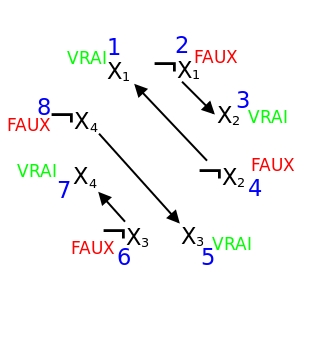
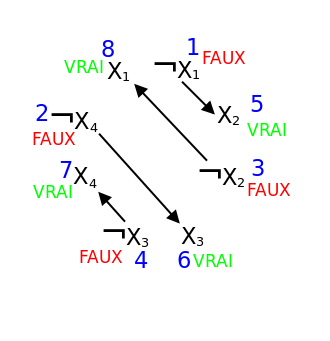
Exo 3-3 : images améliorés, plusieurs paragaphes rédigés (jc)

diff --git a/rapport.tex b/rapport.tex
@@ -437,68 +437,95 @@ Il s'agit de prouver que 2-SAT est un problème polynomial. Vous avez un article
 Vous commencerez par fabriquer trois ensembles de deux clauses, le premier valide, le deuxième insatisfiable et le troisième contingent, et pour chacun de ces ensembles de clauses vous construirez le graphe correspondant. Vous expliquerez comment apparaît sur chacun des trois graphes la validité de l'ensemble de clauses corresponsdant.
 \end{sousenonce}
 
-Philippe Gambette, dans son article intitulé \begin{quote}Un graphe pour résoudre 2-SAT\end{quote}, donne une explication succincte de l'agorithme de Aspvall, Plass et Tarjan, un algorithme en temps polynomial.
+Philippe Gambette, dans son article intitulé \begin{quote}Un graphe pour résoudre 2-SAT\end{quote}, donne une explication succincte de l'agorithme de Aspvall, Plass et Tarjan.
 
-Une formule logique en forme normale conjonctive contenant des clauses à deux littéraux est transformé en un problème de graphe orienté. On doit tout d'abord établir s'il existe une valuation de la graphe en question et ensuite trouvé une solution où la formule en question soit vraie.
+Une formule logique en forme normale conjonctive contenant des clauses à deux littéraux est transformé en un problème de graphe orienté. On doit tout d'abord établir si la formule admet un modèle, et, et ensuite, si oui, donné un modèle quelconque.
 
-%\begin{enumerate}
-La construction du graphe : 
-%\begin{enumerate}
-On crée un graphe avec $2n$ sommets contenant tous les littéraux de la formule ainsi que sa négation.
-On prend chaque clause de la formule que l'on traduit en implication dans les deux sens : $(a \vee b)$ 
-devient, et $(\neg a \Rightarrow b)$, et $\neg b \Rightarrow a)$.
-On ajoute un arc correspondant aux deux implications dans le graphe, dans l'exemple de l'étape précédent,
-il s'agirait d'un arc de $\neg a$ à $b$ et un arc de $\neg b$ à $a$
-%\end{enumerate}
-On effectue un tri topologique en numérotant les sommets de $1$ à $n$.
-En ordre inverse, du sommet $n$ au sommet $1$, on affecte à tout noeud $a$ la valeur VRAI (et à $\neg a$ la valeur FAUX)
-%\end{enumerate}  	
+\begin{enumerate}
+\item L'algorithme de construction de graphe : 
+\begin{enumerate}
+\item On crée un graphe avec $2n$ sommets ($n$ étant ici le nombre littéraux distincts de la formule) contenant tous les littéraux de la formule ainsi que les négations de ces littéraux.
+\item On prend chaque clause de la formule que l'on traduit en implication dans les deux sens : $(a \vee b)$ 
+se transforme en deux clauses : $(\neg a \Rightarrow b)$ et $\neg b \Rightarrow a)$.
+\item On crée des arcs correspondant aux implications créées à l'étape précédent (arc $\neg a 
+\rightarrow b$ et $\neg b \rightarrow a$
+\end{enumerate}
+\item On effectue un tri topologique en numérotant les sommets de $1$ à $n$.
+\item En ordre inverse, du sommet $n$ au sommet $1$ du graphe, on affecte à tout noeud $a$ la valeur VRAI (et à $\neg a$ la valeur FAUX), c'est-à-dire dans l'ordre inverse du tri topologique.
+\end{enumerate}  	
 
-S'il existe un un composant fortement connexe contenant un littéral et sa négation, la formule est insatisfiable,
-sinon, la formule est satisfiable, c'est-à-dire soit contingente soit valide.
+S'il existe un composant fortement connexe contenant un littéral et sa négation, la formule est insatisfiable étant donné qu'on a $x_{i} \Leftrightarrow \neg £x_{i}$ sinon, la formule est satisfiable, c'est-à-dire soit contingente soit valide. L'algorithme ne nous donne aucune information pour distinguer une formule contingente et une formule valide, il nous donne une ou deux informations : (1) il nous dit si la formule admet un modèle, et (2) si oui, il nous donne un modèle. Le modèle est assuré car le graphe en question ne contient aucun arc $VRAI \rightarrow FAUX$.
 
+Prenons trois exemples, une formule insatisfiable, une formule contingente et une formule valide.
 
 Clause insatisfiable : $(x_{1} \vee x_{1}) \wedge (\neg x_{1} \vee \neg x_{1})$
 
 \includegraphics[height=2in, width = 3in]{img/insatisfiable.png}
 
-%Losque l'on appiqua
-%On transforme la clause $(x_{1} \vee x_{1})$ en $(\neg x_{1} \Rightarrow x_{1})$ et en 
-%$(\neg x_{2} \Rightarrow x_{2})$. 
+Le résultat de l'application de l'algorithme décrit ci-dessus est un graphe orienté cyclique. Il est impossible d'effectuer un tri topologique étant donné qu'un tri topologique ne peut être effectuer que sur un graphe acyclique orienté. Ce graphe contient un composant fortement connexe contenant un littéral et sa négation, et la formule associée est, par conséquent, insatisfiable. Il est impossible d'attribuer un ordre aux sommets pour ensuite affecter des valeurs aux littéraux correspondant aux sommets car la formule admet aucun modèle. Pour cette raison, les arcs de ce graphe n'ont pas été numérotés ni affecté des valeurs $VRAI$ ou $FAUX$. En somme, l'algorithme nous dit simplement que ce graphe n'admet aucun modèle.  
 
-Ce graphe contient un composant fortement connexe contenant un littéral et sa négation.
-La formule associée est, par conséquent, insatisfiable.
 
 Clause contingente :  $(x_{1} \vee x_{2}) \wedge (x_{3} \vee x_{4})$	
 
 \includegraphics[height=2in, width = 3in]{img/contingente.png}
 
-Ce graphe ne contient aucun composant fortement connexe contenant un littéral et sa négation.
-Selon ces informations, la formule ci-dessus pourrait être soit contingente soit valide.
-
-... ?? pourquoi contingente et non pas valide ??
-
+Ce graphe ne contient aucun composant fortement connexe contenant un littéral et sa négation, donc la formule associée admet bien un modèle. Ce modèle est le résultat du tri topologique effectué et les valeurs $VRAI$ et $FAUX$ affectées par notre algorithme. Il existe aucun arc qui part d'un sommet étiqueté $VRAI$ vers un sommet étiqueté $FAUX$ et, en effet, les valeurs attribuées aux arcs donnent bien un modèle. 
 
 
 Clause valide :  $(x_{1} \vee \neg x_{1}) \wedge (x_{2} \vee \neg x_{2})$	
 
-\includegraphics[height=2in, width = 3in]{img/contingente.png}
+\includegraphics[height=2in, width = 3in]{img/valide.png}
 
+L'application de l'algorithme de transformation en graphe d'une formule valide nous donne un graphe ne contenant que des boucles à chaque sommet. Nous pouvons donc numéroter les arcs de n'importe quel façon. Ce étant, nous pouvous aussi effectuer n'importe quelles valeurs aux sommets (hormis la même valeur à un littéral et sa négation, bien entendu) et la formule sera toujours vrai. 
 
+L'objectif de cet algorithme n'est pas de dire si une formule satisfiable est contingente ou valide. Toutefois, si le résultat de l'algorithme est un graphe ne comportant que des boucles à chaque sommet, la formule associée est satisfiable et valide. Autrement, et si le graphe ne contient aucun composant fortement connexe contenant un littéral et sa négation, la formule est contingente.
 
 \begin{sousenonce}
 Vous expliciterez ensuite l'algorithme de transformation et vous évaluerez sa complexité.
 \end{sousenonce}
 
+Tout d'abord, il faut transformer une formule en forme normale conjonctive en une série d'implications. Cela ce fait en temps linéaire, en $O(n)$. Ensuite, il faut créer le graphe associé -- numérotation et attribution des valeurs $VRAI$ et $FAUX$, ce qui se fait également en 0(n). 
+
+
+CORMEN:
+
+We can perform a topological sort in time , since depth-first search takes $\theta(V + E)$
+time and it takes O(1) time to insert each of the |V| vertices onto the front of the linked list.
+
+
+Our algorithm for finding strongly connected components of a graph G = (V, E) uses the
+transpose of G, which is defined in Exercise 22.1-3 to be the graph GT = (V, ET), where ET =
+{(u, v) : (v, u) E}. That is, ET consists of the edges of G with their directions reversed. Given
+an adjacency-list representation of G, the time to create GT is O(V + E). It is interesting to
+observe that G and GT have exactly the same strongly connected components: u and v are
+reachable from each other in G if and only if they are reachable from each other in GT. Figure
+22.9(b) shows the transpose of the graph in Figure 22.9(a), with the strongly connected
+components shaded.
+The following linear-time (i.e., $\theta(V + E)$-time) algorithm computes the strongly connected
+components of a directed graph G = (V, E) using two depth-first searches, one on G and one
+on GT.
+STRONGLY-CONNECTED-COMPONENTS (G)
+1 call DFS (G) to compute finishing times f[u] for each vertex u
+2 compute GT
+3 call DFS (GT), but in the main loop of DFS, consider the vertices
+in order of decreasing f[u] (as computed in line 1)
+4 output the vertices of each tree in the depth-first forest formed in
+line 3 as a
+separate strongly connected component
 
 \begin{sousenonce}
 Vous expliciterez ensuite l'algorithme d'exploration du graphe et vous évaluerez sa complexité {\it en fonction de la taille de l'ensemble de clauses initial}.
 \end{sousenonce}
 
+Le tri topologique se fait $en \theta(V + E)$ en faisant un parcours en profondeur. Etablir s'il existe un composant connexe (sans prendre en compte, pour l'instant, si ce composant contient un sommet ainsi que sa négation) se fait en $O(V + E)$. Etablir s'il existe un littéral et sa négation se fait en temps linéaire $O(n)$. 
+
+Tout l'algorithme se fait donc en temps linéaire, en $theta(V + E)$
 
 \begin{sousenonce}
 Enfin, vous justifierez l'équivalence de la réponse au problème 2-SAT et au problème qui est posé dans le graphe.
 \end{sousenonce}
+
+Help Georges !!
 
 
 \subsection{Partie Calculabilité}
